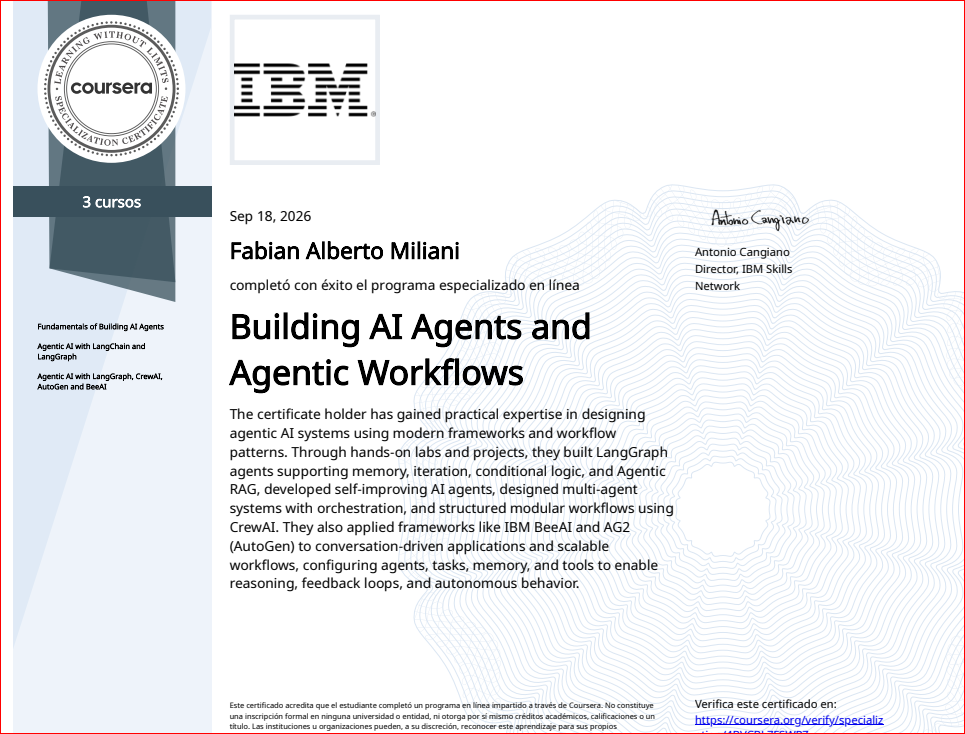
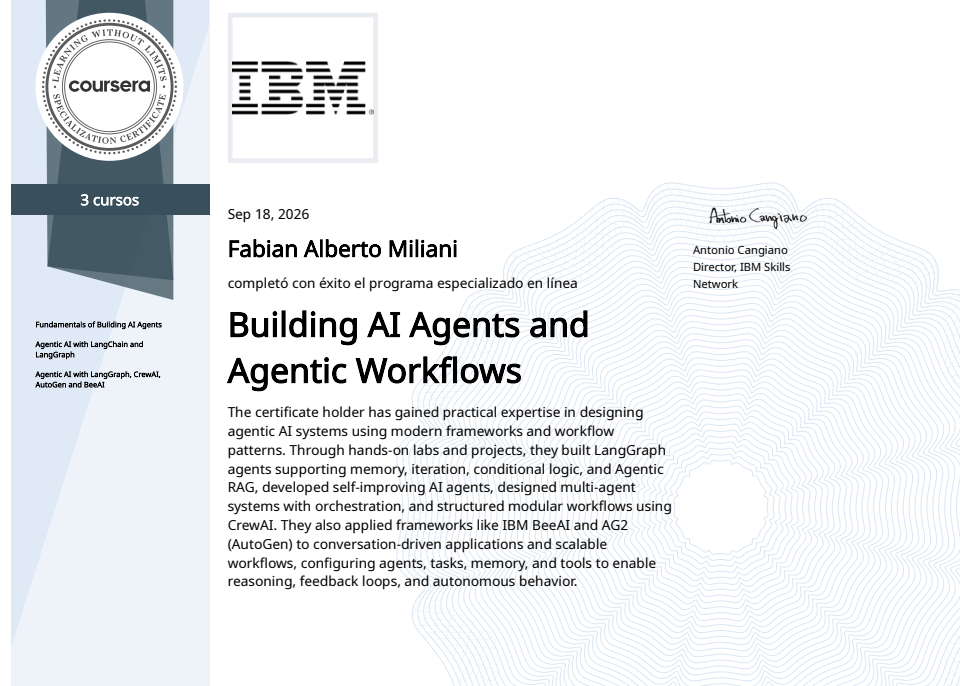
Hero moderno con retrato integrado, banda de tecnologías y certificado corregido

diff --git a/index.html b/index.html
@@ -126,26 +126,60 @@
 			.nav-links a { padding: 12px 0; font-size: 1.05rem; }
 		}
 
-		/* Hero */
-		.hero { padding: 64px 0 88px; }
-		.hero .wrap {
-			display: grid; grid-template-columns: 1.15fr .85fr; gap: 64px; align-items: center;
-			min-height: calc(100dvh - 64px - 152px);
+		/* Hero: panel con rejilla tenue y retrato que se funde con el fondo */
+		.hero { padding: 24px 0 0; }
+		.hero-panel {
+			position: relative; overflow: hidden; isolation: isolate;
+			border-radius: var(--radius); border: 1px solid var(--line);
+			background:
+				radial-gradient(60% 80% at 85% 40%, color-mix(in srgb, var(--accent) 22%, transparent), transparent 70%),
+				linear-gradient(var(--line) 1px, transparent 1px) 0 0 / 56px 56px,
+				linear-gradient(90deg, var(--line) 1px, transparent 1px) 0 0 / 56px 56px,
+				var(--surface);
+			display: grid; grid-template-columns: 1.1fr .9fr;
+			min-height: min(calc(100dvh - 120px), 760px);
 		}
-		.hero h1 { font-size: clamp(2.6rem, 5.4vw, 4.4rem); letter-spacing: -0.04em; max-width: 14ch; }
+		.hero-copy { padding: 72px 0 72px 64px; align-self: center; position: relative; z-index: 1; }
+		.hero h1 { font-size: clamp(2.6rem, 5.2vw, 4.6rem); letter-spacing: -0.045em; line-height: 1.02; max-width: 13ch; }
 		.hero h1 em { font-style: normal; color: var(--accent); }
-		.hero-sub { font-size: 1.2rem; color: var(--muted); max-width: 44ch; margin: 28px 0 40px; }
+		.hero-sub { font-size: 1.18rem; color: var(--muted); max-width: 42ch; margin: 28px 0 40px; }
 		.hero-ctas { display: flex; gap: 12px; flex-wrap: wrap; }
-		.portrait {
-			border-radius: var(--radius); overflow: hidden; box-shadow: var(--shadow);
-			aspect-ratio: 4 / 5; max-height: 72dvh; justify-self: end; width: 100%;
-			background: var(--surface-2);
+		.hero-ctas .btn-ghost { background: var(--surface); }
+		.portrait { position: relative; min-height: 100%; }
+		.portrait img {
+			position: absolute; inset: 0; width: 100%; height: 100%;
+			object-fit: cover; object-position: 50% 18%;
+			-webkit-mask-image: linear-gradient(to right, transparent 0, #000 28%);
+			mask-image: linear-gradient(to right, transparent 0, #000 28%);
 		}
-		.portrait img { width: 100%; height: 100%; object-fit: cover; object-position: 50% 20%; }
-		@media (max-width: 768px) {
-			.hero { padding: 32px 0 64px; }
-			.hero .wrap { grid-template-columns: 1fr; gap: 40px; min-height: 0; }
-			.portrait { order: -1; max-height: 420px; aspect-ratio: 1 / 1; }
+		@media (max-width: 900px) {
+			.hero-panel { grid-template-columns: 1fr; min-height: 0; }
+			.portrait { order: -1; height: clamp(360px, 62vw, 540px); min-height: 0; }
+			.portrait img {
+				-webkit-mask-image: linear-gradient(to bottom, #000 60%, transparent 100%);
+				mask-image: linear-gradient(to bottom, #000 60%, transparent 100%);
+			}
+			.hero-copy { padding: 0 28px 44px; margin-top: -40px; }
+		}
+
+		/* Stack: una sola banda de logos en movimiento */
+		.stack { padding: 40px 0 0; overflow: hidden; }
+		.stack-track { display: flex; width: max-content; }
+		.stack-track .logo { margin-right: 64px; }
+		.stack-mask {
+			-webkit-mask-image: linear-gradient(90deg, transparent, #000 10%, #000 90%, transparent);
+			mask-image: linear-gradient(90deg, transparent, #000 10%, #000 90%, transparent);
+		}
+		.logo {
+			width: 34px; height: 34px; flex: none; background: var(--muted);
+			-webkit-mask: var(--src) center / contain no-repeat; mask: var(--src) center / contain no-repeat;
+			transition: background-color .3s;
+		}
+		.logo:hover { background: var(--accent); }
+		@media (prefers-reduced-motion: no-preference) {
+			.stack-track { animation: slide 40s linear infinite; }
+			.stack:hover .stack-track { animation-play-state: paused; }
+			@keyframes slide { to { transform: translateX(-50%); } }
 		}
 
 		/* Sobre mí */
@@ -237,10 +271,15 @@
 		/* Certificaciones */
 		.certs { padding-top: 0; }
 		.cert-feature {
-			display: grid; grid-template-columns: 1.1fr .9fr; gap: 56px; align-items: center;
+			display: grid; grid-template-columns: minmax(0, 1.1fr) minmax(0, .9fr); gap: 56px; align-items: center;
 			margin-bottom: 80px;
 		}
-		.cert-img { border-radius: var(--radius); overflow: hidden; border: 1px solid var(--line); box-shadow: var(--shadow); background: #fbfbfb; }
+		.cert-feature > * { min-width: 0; }
+		.cert-img {
+			border-radius: var(--radius); overflow: hidden; border: 1px solid var(--line); box-shadow: var(--shadow);
+			background: #fbfbfb; padding: 10px;
+		}
+		.cert-img img { width: 100%; height: auto; border-radius: calc(var(--radius) - 8px); }
 		.cert-feature h3 { font-size: 1.8rem; margin-bottom: 12px; }
 		.cert-feature .mono { color: var(--muted); display: block; margin-bottom: 24px; }
 		.course-list li { display: flex; gap: 12px; padding: 10px 0; }
@@ -320,17 +359,37 @@
 
 	<header class="hero">
 		<div class="wrap">
-			<div>
-				<p class="eyebrow reveal">Fabián Alberto Miliani</p>
-				<h1 class="reveal" style="--i:1">Agentes de IA llevados a <em>interfaces reales</em>.</h1>
-				<p class="hero-sub reveal" style="--i:2">Desarrollador senior con más de 12 años en Angular y TypeScript. Hoy construyo agentes con LLM, RAG y MCP.</p>
-				<div class="hero-ctas reveal" style="--i:3">
-					<a href="#projects" class="btn btn-primary">Ver proyectos <i class="ph ph-arrow-down-right"></i></a>
-					<a href="#contact" class="btn btn-ghost">Contactar</a>
+			<div class="hero-panel">
+				<div class="hero-copy">
+					<p class="eyebrow reveal">Fabián Alberto Miliani</p>
+					<h1 class="reveal" style="--i:1">Agentes de IA llevados a <em>interfaces reales</em>.</h1>
+					<p class="hero-sub reveal" style="--i:2">Desarrollador senior con más de 12 años en Angular y TypeScript. Hoy construyo agentes con LLM, RAG y MCP.</p>
+					<div class="hero-ctas reveal" style="--i:3">
+						<a href="#projects" class="btn btn-primary">Ver proyectos <i class="ph ph-arrow-down-right"></i></a>
+						<a href="#contact" class="btn btn-ghost">Contactar</a>
+					</div>
+				</div>
+				<div class="portrait reveal" style="--i:1">
+					<img src="./bombillo.jpeg" alt="Retrato de Fabián Alberto Miliani" width="928" height="1127" fetchpriority="high">
 				</div>
 			</div>
-			<div class="portrait reveal" style="--i:2">
-				<img src="./bombillo.jpeg" alt="Retrato de Fabián Alberto Miliani" width="928" height="1127" fetchpriority="high">
+		</div>
+		<div class="stack" aria-label="Tecnologías con las que trabajo">
+			<div class="wrap stack-mask">
+				<div class="stack-track" id="stack-track">
+					<span class="logo" role="img" aria-label="Angular" style="--src:url(https://cdn.simpleicons.org/angular)"></span>
+					<span class="logo" role="img" aria-label="TypeScript" style="--src:url(https://cdn.simpleicons.org/typescript)"></span>
+					<span class="logo" role="img" aria-label="Python" style="--src:url(https://cdn.simpleicons.org/python)"></span>
+					<span class="logo" role="img" aria-label="LangChain" style="--src:url(https://cdn.simpleicons.org/langchain)"></span>
+					<span class="logo" role="img" aria-label="Ollama" style="--src:url(https://cdn.simpleicons.org/ollama)"></span>
+					<span class="logo" role="img" aria-label="Hugging Face" style="--src:url(https://cdn.simpleicons.org/huggingface)"></span>
+					<span class="logo" role="img" aria-label="PostgreSQL" style="--src:url(https://cdn.simpleicons.org/postgresql)"></span>
+					<span class="logo" role="img" aria-label="Docker" style="--src:url(https://cdn.simpleicons.org/docker)"></span>
+					<span class="logo" role="img" aria-label="NestJS" style="--src:url(https://cdn.simpleicons.org/nestjs)"></span>
+					<span class="logo" role="img" aria-label="Node.js" style="--src:url(https://cdn.simpleicons.org/nodedotjs)"></span>
+					<span class="logo" role="img" aria-label="RxJS" style="--src:url(https://cdn.simpleicons.org/reactivex)"></span>
+					<span class="logo" role="img" aria-label="GitLab" style="--src:url(https://cdn.simpleicons.org/gitlab)"></span>
+				</div>
 			</div>
 		</div>
 	</header>
@@ -483,12 +542,12 @@
 		</div>
 	</section>
 
-	<section class="certs">
+	<section id="certifications" class="certs">
 		<div class="wrap">
 			<h2 class="section-title reveal">Certificaciones</h2>
 			<div class="cert-feature">
 				<div class="cert-img reveal">
-					<img src="./certificado-ibm.png" alt="Certificado de especialización de IBM en Coursera: Building AI Agents and Agentic Workflows" width="965" height="734" loading="lazy">
+					<img src="./certificado-ibm.png" alt="Certificado de especialización de IBM en Coursera: Building AI Agents and Agentic Workflows" width="960" height="686" loading="lazy">
 				</div>
 				<div class="reveal" style="--i:1">
 					<h3>Building AI Agents and Agentic Workflows</h3>
@@ -575,6 +634,14 @@
 		});
 		navLinks.addEventListener('click', (e) => {
 			if (e.target.tagName === 'A' && navLinks.classList.contains('open')) menuBtn.click();
+		});
+
+		// Duplica los logos para que la banda sea continua
+		const track = document.getElementById('stack-track');
+		[...track.children].forEach((logo) => {
+			const copy = logo.cloneNode(true);
+			copy.setAttribute('aria-hidden', 'true');
+			track.appendChild(copy);
 		});
 
 		// Aparición al entrar en pantalla
